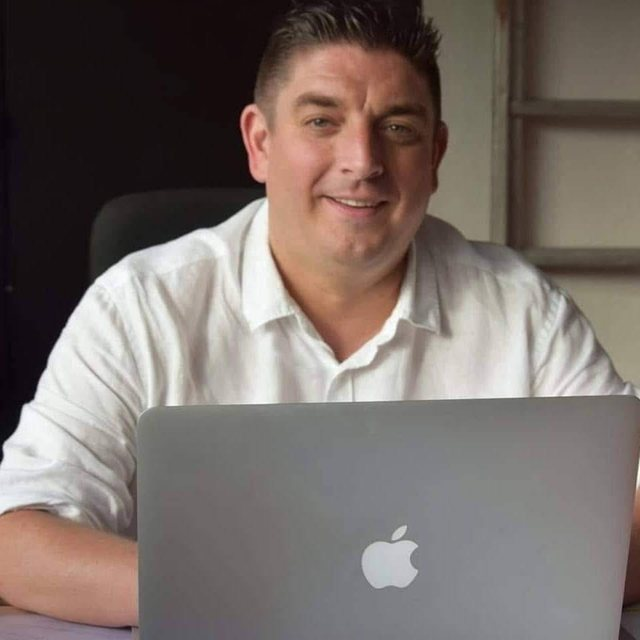
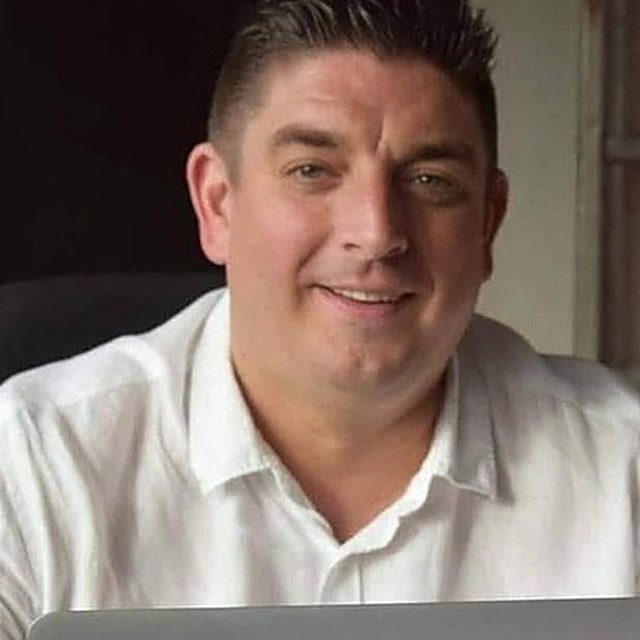
Crop profile photo to head-and-shoulders (drop the laptop)
- Tight square crop centered on the face; laptop removed
- Upscaled + lightly sharpened to stay crisp in the frame
- object-position back to center

diff --git a/assets/styles.css b/assets/styles.css
@@ -439,7 +439,7 @@ body:after{
   box-shadow:0 26px 52px -26px rgba(192,122,44,.55);
 }
 .about-photo{
-  position:relative;z-index:1;display:block;width:100%;height:auto;aspect-ratio:1/1;object-fit:cover;object-position:center 30%;
+  position:relative;z-index:1;display:block;width:100%;height:auto;aspect-ratio:1/1;object-fit:cover;object-position:center;
   border:5px solid var(--paper);border-radius:38px 38px 38px 58px;
   box-shadow:0 22px 46px -20px rgba(16,24,40,.45);
   transform:rotate(1.8deg);
